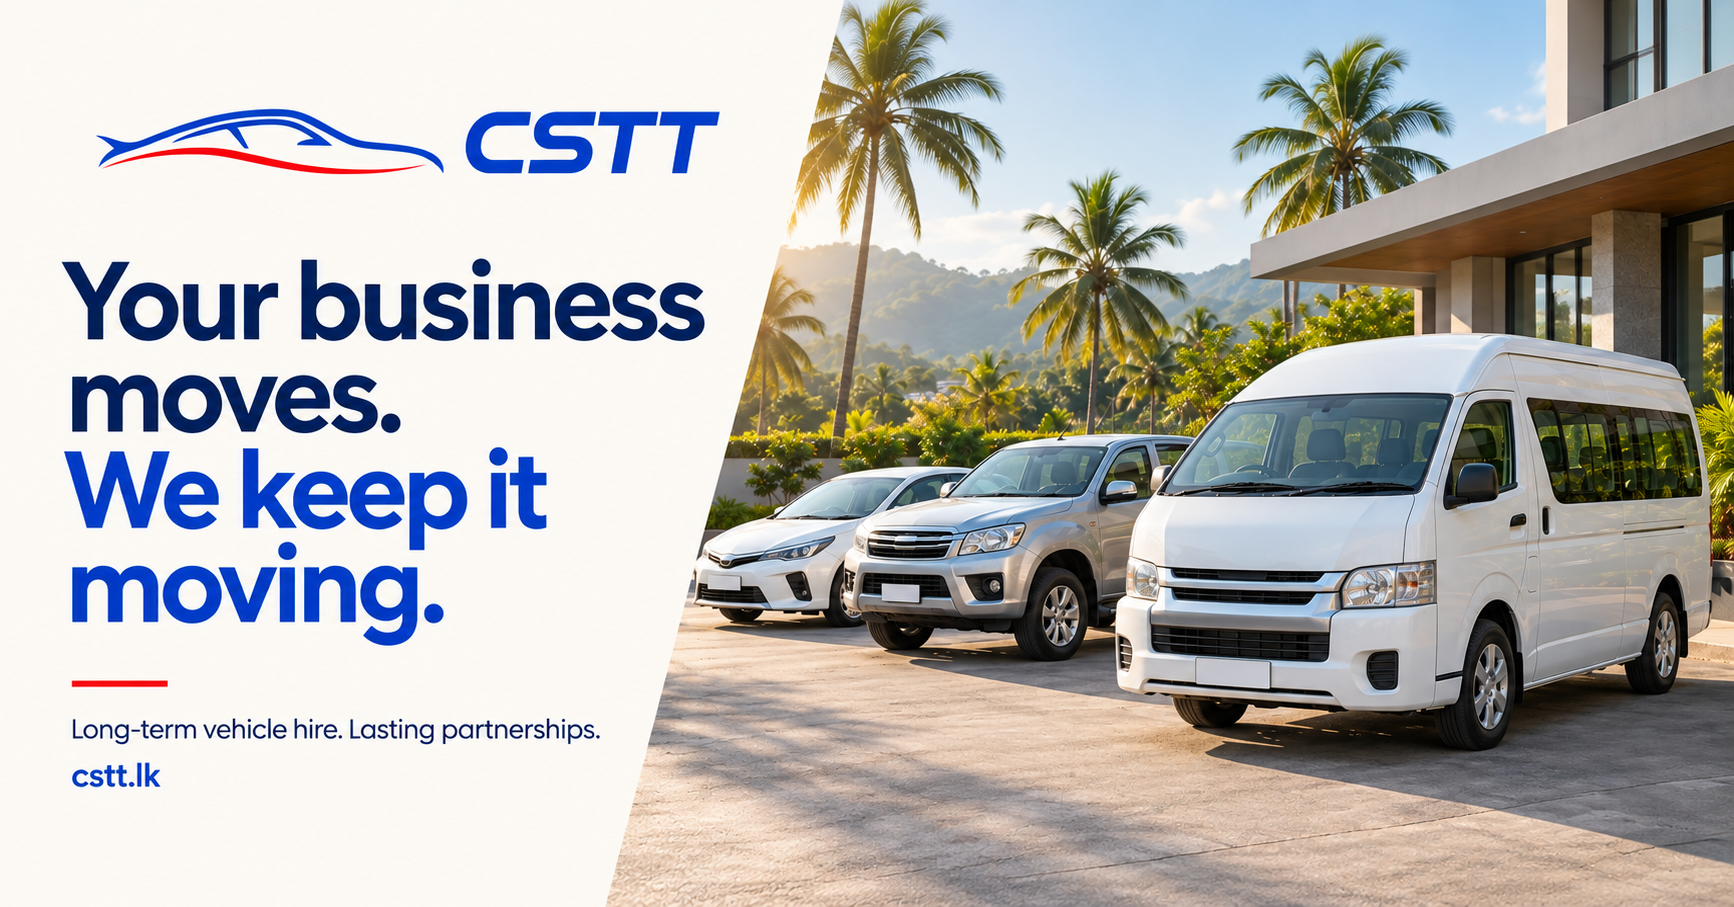
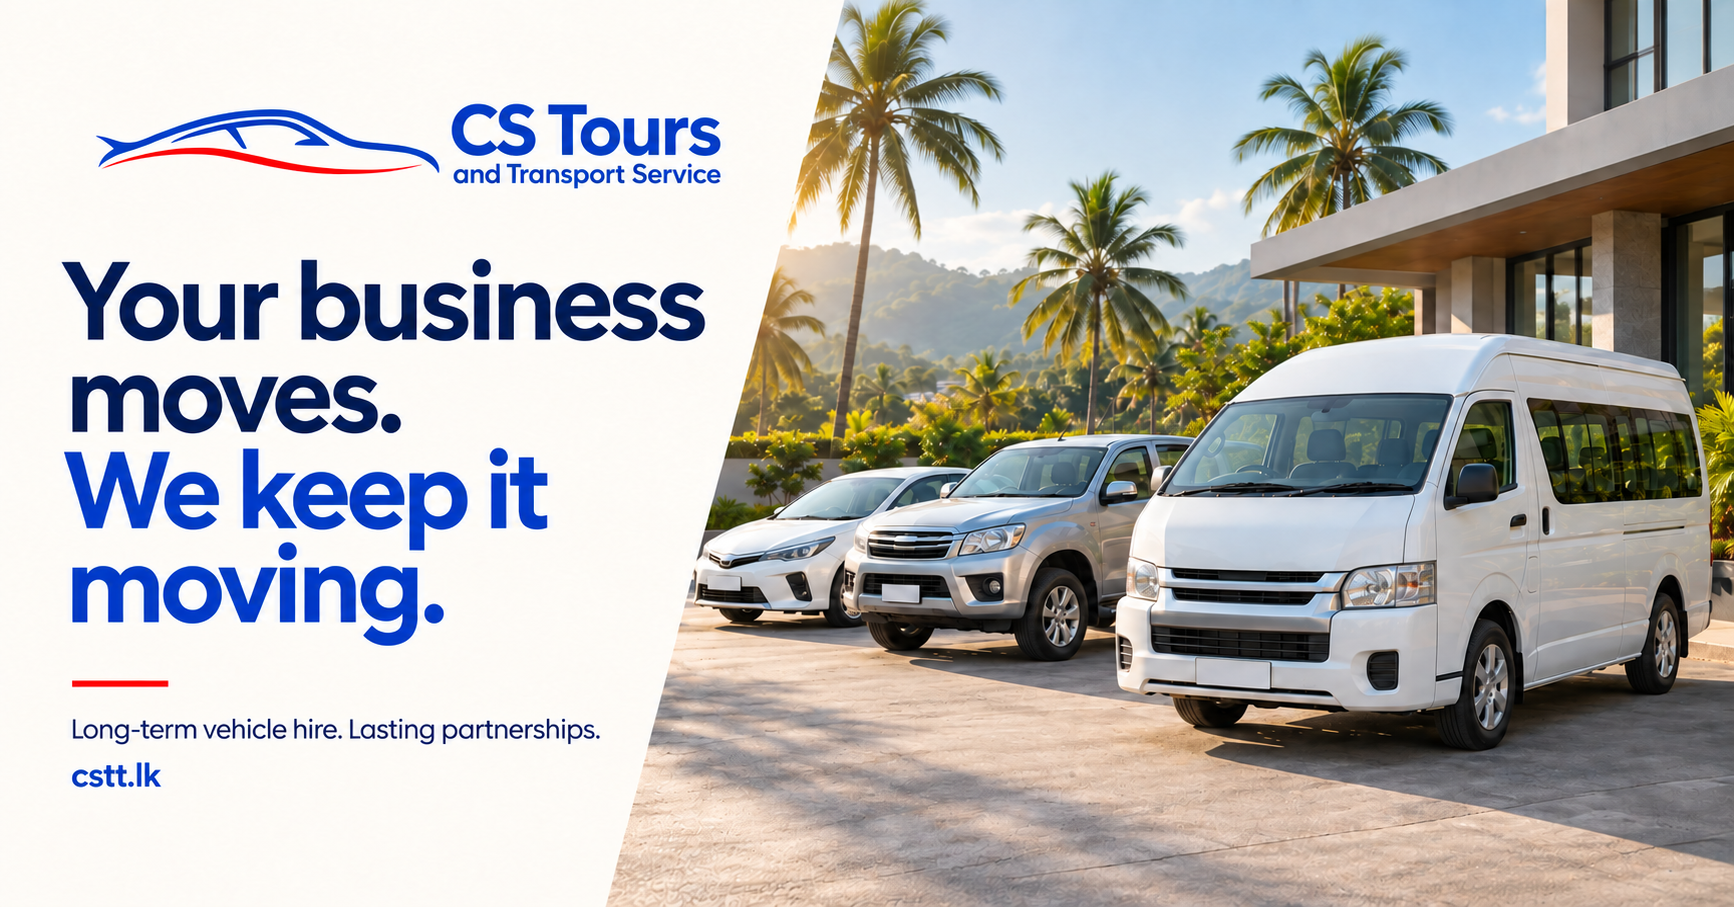
Update CS Tours branding and Colombo contact details

diff --git a/index.html b/index.html
@@ -4,10 +4,13 @@
     <meta charset="UTF-8" />
     <meta name="viewport" content="width=device-width, initial-scale=1.0" />
     <meta name="theme-color" content="#1039b0" />
-    <title>CSTT — Long-term vehicle hire. Lasting partnerships.</title>
+    <title>
+      CS Tours and Transport Service — Long-term vehicle hire. Lasting
+      partnerships.
+    </title>
     <meta
       name="description"
-      content="C S Tours and Transport Service supplies long-term vehicles and driver-coordinated transport for businesses and project teams in Sri Lanka. Talk to us about your fleet requirements."
+      content="CS Tours and Transport Service supplies long-term vehicles and driver-coordinated transport for businesses and project teams in Sri Lanka. Talk to us about your fleet requirements."
     />
     <link rel="canonical" href="https://cstt.lk/" />
     <link rel="icon" type="image/png" href="/images/favicon.png" />
@@ -15,7 +18,7 @@
     <meta property="og:url" content="https://cstt.lk/" />
     <meta
       property="og:title"
-      content="CSTT — Your business moves. We keep it moving."
+      content="CS Tours and Transport Service — Your business moves. We keep it moving."
     />
     <meta
       property="og:description"
@@ -24,7 +27,7 @@
     <meta property="og:image" content="https://cstt.lk/og.png" />
     <meta
       property="og:image:alt"
-      content="CSTT. Long-term vehicle hire. Lasting partnerships."
+      content="CS Tours and Transport Service. Long-term vehicle hire. Lasting partnerships."
     />
     <meta name="twitter:card" content="summary_large_image" />
     <link rel="stylesheet" href="/src/style.css" />
@@ -33,16 +36,16 @@
       {
         "@context": "https://schema.org",
         "@type": "Organization",
-        "name": "C S Tours and Transport Service",
-        "alternateName": "CSTT",
+        "name": "CS Tours and Transport Service",
+        "alternateName": "CS Tours",
         "url": "https://cstt.lk/",
         "logo": "https://cstt.lk/images/cstt-mark.png",
-        "telephone": "+94112803702",
+        "telephone": "+94112337887",
         "email": "info@cstt.lk",
         "address": {
           "@type": "PostalAddress",
-          "streetAddress": "No. 582, Gangodawila",
-          "addressLocality": "Nugegoda",
+          "streetAddress": "Level 5, East Tower, World Trade Center",
+          "addressLocality": "Colombo 1",
           "addressCountry": "LK"
         }
       }
@@ -53,22 +56,25 @@
     <div class="topbar">
       <div class="container topbar-inner">
         <span>Built on trust. Driven by people.</span
-        ><a href="tel:+94112803702"
-          ><span data-icon="phone"></span> +94 11 280 3702
-          <span class="topbar-location">Nugegoda, Sri Lanka</span></a
+        ><a href="tel:+94112337887"
+          ><span data-icon="phone"></span> +94 112 337 887
+          <span class="topbar-location">Colombo 1, Sri Lanka</span></a
         >
       </div>
     </div>
     <header class="header">
       <div class="container nav-wrap">
-        <a class="brand" href="#" aria-label="CSTT home"
+        <a
+          class="brand"
+          href="#"
+          aria-label="CS Tours and Transport Service home"
           ><img
             src="/images/cstt-mark.png"
             width="80"
             height="40"
             alt=""
           /><span class="brand-type"
-            >CSTT<span>TOURS & TRANSPORT</span></span
+            >CS Tours<span>and Transport Service</span></span
           ></a
         >
         <button
@@ -82,7 +88,7 @@
         </button>
         <nav id="navigation" aria-label="Main navigation">
           <a href="#services">Our services</a><a href="#fleet">Our fleet</a
-          ><a href="#why-cstt">Why CSTT</a
+          ><a href="#why-cs-tours">Why CS Tours</a
           ><a class="button button-small" href="#contact"
             >Let’s talk transport <span data-icon="arrow-up-right"></span
           ></a>
@@ -343,7 +349,11 @@
           </div>
         </div>
       </section>
-      <section class="section why" id="why-cstt" aria-labelledby="why-title">
+      <section
+        class="section why"
+        id="why-cs-tours"
+        aria-labelledby="why-title"
+      >
         <div class="container why-grid">
           <div>
             <p class="eyebrow">
@@ -353,9 +363,9 @@
               Good transport starts<br />with a good partnership.
             </h2>
             <p class="why-intro">
-              We’re C S Tours and Transport Service. Our work is
-              straightforward: connect businesses with the vehicles and people
-              they need, and keep that relationship working over the long term.
+              We’re CS Tours and Transport Service. Our work is straightforward:
+              connect businesses with the vehicles and people they need, and
+              keep that relationship working over the long term.
             </p>
             <a class="text-link" href="#contact"
               >Get to know your transport partner
@@ -452,9 +462,9 @@
               us what you’re working on.
             </p>
             <div class="contact-methods">
-              <a href="tel:+94112803702"
+              <a href="tel:+94112337887"
                 ><span data-icon="phone"></span
-                ><span><small>CALL OUR TEAM</small>+94 11 280 3702</span
+                ><span><small>CALL OUR TEAM</small>+94 112 337 887</span
                 ><span data-icon="arrow-up-right"></span></a
               ><a href="mailto:info@cstt.lk"
                 ><span data-icon="mail"></span
@@ -464,8 +474,8 @@
               <div>
                 <span data-icon="map-pin"></span
                 ><span
-                  ><small>FIND US</small>No. 582, Gangodawila,<br />Nugegoda,
-                  Sri Lanka</span
+                  ><small>FIND US</small>Level 5, East Tower,<br />World Trade
+                  Center,<br />Colombo 1</span
                 >
               </div>
             </div>
@@ -565,14 +575,17 @@
     <footer>
       <div class="container">
         <div class="footer-main">
-          <a class="brand" href="#" aria-label="CSTT home"
+          <a
+            class="brand"
+            href="#"
+            aria-label="CS Tours and Transport Service home"
             ><img
               src="/images/cstt-mark.png"
               width="80"
               height="40"
               alt=""
             /><span class="brand-type"
-              >CSTT<span>TOURS & TRANSPORT</span></span
+              >CS Tours<span>and Transport Service</span></span
             ></a
           >
           <p>Long-term vehicle hire.<br />Lasting partnerships.</p>
@@ -582,7 +595,7 @@
         </div>
         <div class="footer-bottom">
           <span
-            >© <span id="year">2026</span> C S Tours and Transport Service. All
+            >© <span id="year">2026</span> CS Tours and Transport Service. All
             rights reserved.</span
           ><span>Based in Sri Lanka. Built on relationships.</span>
         </div>

diff --git a/src/style.css b/src/style.css
@@ -144,18 +144,19 @@ svg {
 }
 .brand-type {
   font-family: "Manrope Variable", sans-serif;
-  font-size: 34px;
-  font-weight: 850;
-  letter-spacing: -2px;
+  font-size: 29px;
+  font-weight: 750;
+  letter-spacing: -1.1px;
   line-height: 1;
   color: var(--blue);
 }
 .brand-type > span {
   display: block;
-  font-size: 7.5px;
-  letter-spacing: 1.2px;
-  font-weight: 700;
+  font-size: 11px;
+  letter-spacing: 0;
+  font-weight: 600;
   margin-top: 7px;
+  white-space: nowrap;
 }
 .nav-wrap nav {
   display: flex;
@@ -941,10 +942,10 @@ footer {
   width: 67px;
 }
 .footer-main .brand-type {
-  font-size: 29px;
+  font-size: 26px;
 }
 .footer-main .brand-type > span {
-  font-size: 6px;
+  font-size: 10px;
 }
 .back-top {
   display: flex;
@@ -1058,10 +1059,10 @@ footer {
     width: 65px;
   }
   .brand-type {
-    font-size: 29px;
+    font-size: 25px;
   }
   .brand-type > span {
-    font-size: 6px;
+    font-size: 10px;
   }
   .nav-wrap nav {
     font-size: 12px;
@@ -1634,7 +1635,7 @@ footer {
     width: 55px;
   }
   .footer-main .brand-type {
-    font-size: 26px;
+    font-size: 24px;
   }
   .back-top {
     margin-left: 0;

diff --git a/src/main.js b/src/main.js
@@ -121,7 +121,7 @@ document.querySelector("#enquiry-form").addEventListener("submit", (event) => {
   const details = new FormData(form);
   const subject = `Transport enquiry: ${details.get("service")}`;
   const body = [
-    "Hello CSTT team,",
+    "Hello CS Tours and Transport Service team,",
     "",
     `I’m interested in: ${details.get("service")}`,
     "",
@@ -137,6 +137,6 @@ document.querySelector("#enquiry-form").addEventListener("submit", (event) => {
   ].join("\r\n");
   window.location.href = `mailto:info@cstt.lk?subject=${encodeURIComponent(subject)}&body=${encodeURIComponent(body)}`;
   document.querySelector("#form-status").textContent =
-    "Your email draft is ready to open. Send it from your email app to complete the enquiry. If no app opens, email info@cstt.lk or call +94 11 280 3702. Your details remain here for reference.";
+    "Your email draft is ready to open. Send it from your email app to complete the enquiry. If no app opens, email info@cstt.lk or call +94 112 337 887. Your details remain here for reference.";
 });
 document.querySelector("#year").textContent = new Date().getFullYear();

diff --git a/README.md b/README.md
@@ -1,6 +1,6 @@
-# CSTT landing page
+# CS Tours and Transport Service landing page
 
-A responsive, single-page website for **C S Tours and Transport Service**, focused on long-term vehicle hire, driver coordination and project/tender supply in Sri Lanka.
+A responsive, single-page website for **CS Tours and Transport Service**, focused on long-term vehicle hire, driver coordination and project/tender supply in Sri Lanka.
 
 ## Run locally
 
@@ -42,7 +42,7 @@ References: [Vite deployment guide](https://vite.dev/guide/static-deploy), [Clou
 - Main content, contact details and structured metadata: `index.html`.
 - Brand colours, typography and responsive layouts: `src/style.css`.
 - Navigation, fleet selection and enquiry email helper: `src/main.js`.
-- Contact details were carried over from [the existing contact page](https://cstt.lk/contacts.html): **+94 11 280 3702**, **info@cstt.lk**, **No. 582, Gangodawila, Nugegoda, Sri Lanka**. Confirm them before launch; changes should also update the JSON-LD and email helper.
+- Contact details supplied by the owner: **+94 112 337 887**, **info@cstt.lk**, **Level 5, East Tower, World Trade Center, Colombo 1**. Changes should also update the JSON-LD and email helper.
 - Dialog, SLT and Mobitel are named as clients based on the owner's brief. Their names are text, not supplied official brand artwork. RDA and NWSDB are not presented as existing clients.
 - The enquiry form opens a prefilled email draft. It does **not** send or store enquiries. The visitor must send the draft in their email application. Phone and direct email links are also provided. If you later want automatic delivery, add a server-side endpoint or form provider.
 - Fleet imagery is AI-generated and labelled illustrative; no specific vehicle model or availability is promised.
@@ -59,7 +59,7 @@ Generated with the built-in **imagegen** tool. Original generated source files a
 | Favicon                     | `public/images/favicon.png`                                      |
 | Social sharing card         | `public/og.png`                                                  |
 
-Exact generation prompts are recorded in `design/prompts.md`. To regenerate optimized website exports from the saved source images:
+Original generation prompts are recorded in `design/prompts.md`; the full-company-name update to the sharing card is recorded in `design/brand-update-prompt.md`. To regenerate optimized website exports from the saved source images:
 
 ```sh
 node scripts/prepare-assets.mjs

diff --git a/design/brand-update-prompt.md b/design/brand-update-prompt.md
@@ -1,0 +1,5 @@
+# Company-name update
+
+Generated using the built-in imagegen tool. Edit target: the original social sharing card in `public/og.png`. The accepted replacement is saved at `public/og.png`. The website uses the existing generated car symbol with the live-text wordmark **CS Tours and Transport Service**.
+
+Use-case: layout-design. Edit the attached current website social sharing card. Only change the brand lockup at top left. Remove the letters 'CSTT' entirely and replace them with exact company name 'CS Tours and Transport Service', arranged as prominent 'CS Tours' with a smaller second line 'and Transport Service', in elegant strong royal blue sans serif lettering. Keep the small blue/red car roofline symbol next to that company name, scaling the combined logo lockup to fit the existing ivory space cleanly with generous margins. Preserve every other part of the image: exact headline 'Your business moves. We keep it moving.', exact tagline 'Long-term vehicle hire. Lasting partnerships.', URL 'cstt.lk', blue and red palette, white space, diagonal split and all the fleet photography. No additional wording, no acronym logo. Clean precise readable company name with 'Service' singular. Same landscape proportions.
